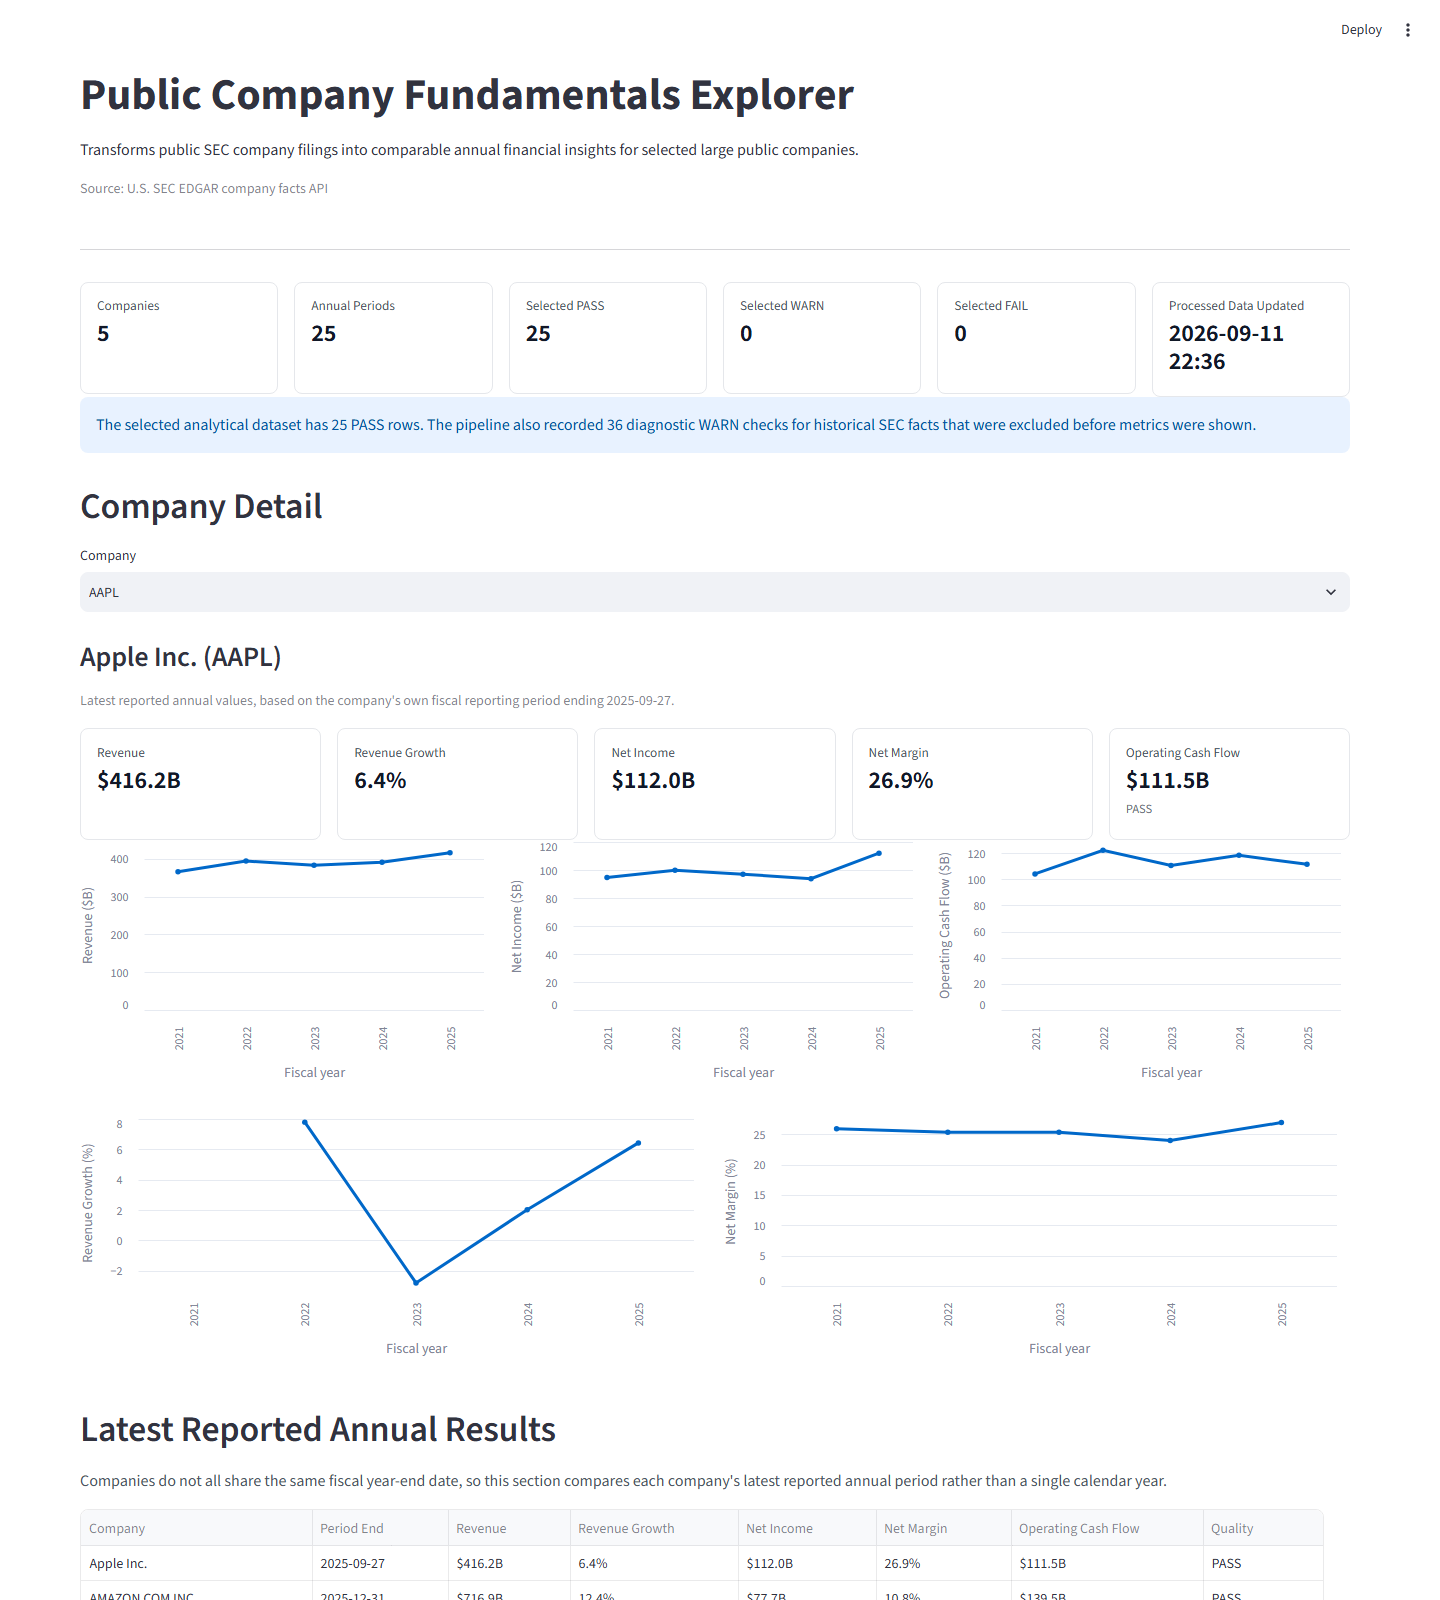
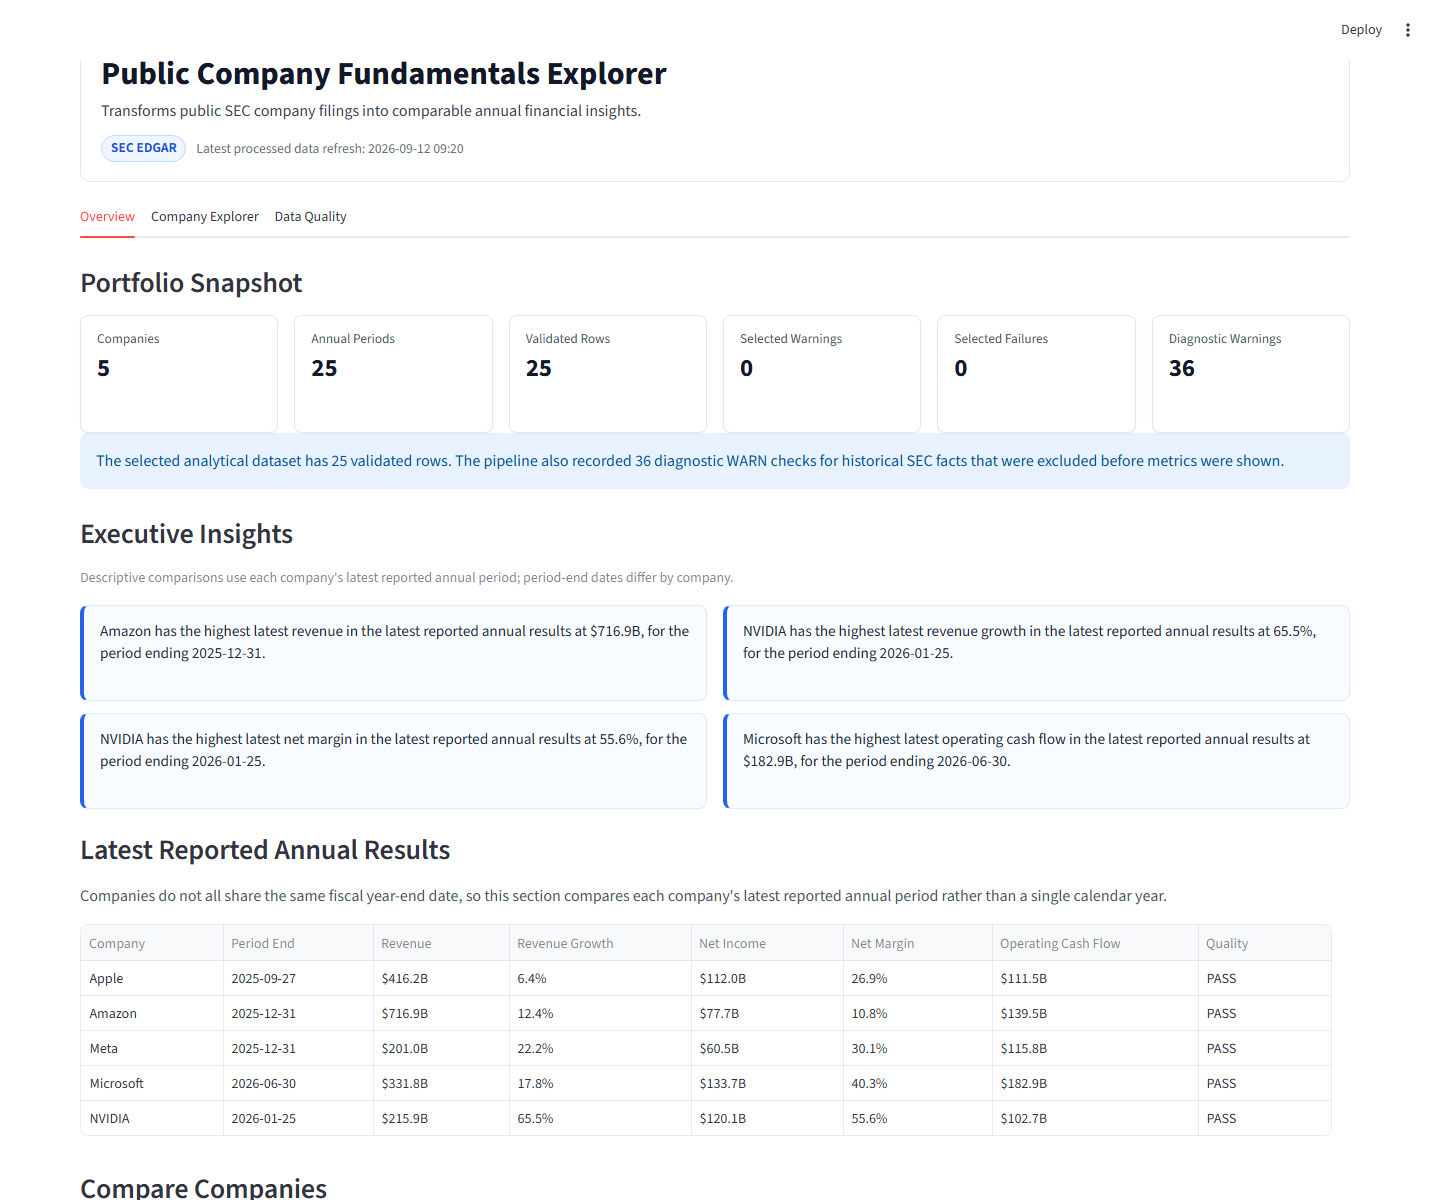
Harden ETL reliability and finalize submission

diff --git a/tests/test_etl.py b/tests/test_etl.py
@@ -1,0 +1,60 @@
+import json
+
+from etl import successful_company_tickers
+from src.config import (
+    NET_INCOME_CONCEPTS,
+    OPERATING_CASH_FLOW_CONCEPTS,
+    REVENUE_CONCEPTS,
+)
+from src.transform import transform_raw_files
+
+
+def annual_fact(value):
+    return {
+        "val": value,
+        "start": "2023-01-01",
+        "end": "2023-12-31",
+        "filed": "2024-02-01",
+        "form": "10-K",
+        "fp": "FY",
+        "fy": 2023,
+        "accn": "test-accession",
+    }
+
+
+def raw_companyfacts(cik, entity_name, revenue):
+    return {
+        "cik": cik,
+        "entityName": entity_name,
+        "facts": {
+            "us-gaap": {
+                REVENUE_CONCEPTS[0]: {"units": {"USD": [annual_fact(revenue)]}},
+                NET_INCOME_CONCEPTS[0]: {"units": {"USD": [annual_fact(10)]}},
+                OPERATING_CASH_FLOW_CONCEPTS[0]: {"units": {"USD": [annual_fact(15)]}},
+            }
+        },
+    }
+
+
+def write_raw_companyfacts(raw_dir, ticker, payload):
+    path = raw_dir / f"{ticker}_companyfacts.json"
+    path.write_text(json.dumps(payload), encoding="utf-8")
+
+
+def test_failed_current_extraction_is_not_processed_from_stale_raw_file(tmp_path):
+    write_raw_companyfacts(tmp_path, "FAILCO", raw_companyfacts(1, "Failed Co", 100))
+    write_raw_companyfacts(tmp_path, "OKCO", raw_companyfacts(2, "OK Co", 200))
+
+    metadata = [
+        {"ticker": "COMPANY_TICKERS", "status": "SUCCESS"},
+        {"ticker": "FAILCO", "status": "FAIL"},
+        {"ticker": "OKCO", "status": "SUCCESS"},
+    ]
+
+    eligible_tickers = successful_company_tickers(metadata)
+    rows, events = transform_raw_files(tickers=eligible_tickers, raw_dir=tmp_path)
+
+    assert eligible_tickers == ("OKCO",)
+    assert {row["ticker"] for row in rows} == {"OKCO"}
+    assert rows[0]["revenue"] == 200
+    assert not [event for event in events if event["ticker"] == "FAILCO"]

diff --git a/etl.py b/etl.py
@@ -190,6 +190,14 @@ def print_summary(metadata: list[dict[str, Any]]) -> None:
             print(f"- {record['ticker']}: {record['error_message']}")
 
 
+def successful_company_tickers(metadata: list[dict[str, Any]]) -> tuple[str, ...]:
+    return tuple(
+        record["ticker"]
+        for record in metadata
+        if record["ticker"] != "COMPANY_TICKERS" and record["status"] == "SUCCESS"
+    )
+
+
 def save_processed_outputs(
     rows: list[dict[str, Any]],
     company_summary: list[dict[str, Any]],
@@ -241,7 +249,8 @@ def print_etl_summary(
 
 def main() -> None:
     metadata = extract()
-    rows, selection_events = transform_raw_files()
+    eligible_tickers = successful_company_tickers(metadata)
+    rows, selection_events = transform_raw_files(tickers=eligible_tickers)
     validated_rows, quality_report = validate_fundamentals(rows, selection_events)
     company_summary = build_company_summary(validated_rows)
     output_paths = save_processed_outputs(

diff --git a/src/config.py b/src/config.py
@@ -10,10 +10,7 @@ COMPANY_FACTS_URL_TEMPLATE = (
     f"{SEC_DATA_BASE_URL}/api/xbrl/companyfacts/CIK{{cik}}.json"
 )
 
-SEC_USER_AGENT = (
-    "PublicCompanyFundamentalsExplorer/0.1 "
-    "(AI data engineering take-home; contact: example@example.com)"
-)
+SEC_USER_AGENT = "PublicCompanyFundamentalsExplorer/1.0 gil4business@gmail.com"
 
 REQUEST_TIMEOUT_SECONDS = 20
 REQUEST_PAUSE_SECONDS = 0.25

diff --git a/README.md b/README.md
@@ -50,37 +50,40 @@ Repository Structure
 
 ```text
 .
-├── app.py
-├── etl.py
-├── requirements.txt
-├── README.md
-├── dashboard_screenshot.png
-├── ai_transcript/
-│   └── README.md
-├── data/
-│   ├── raw/
-│   │   ├── company_tickers.json
-│   │   ├── AAPL_companyfacts.json
-│   │   ├── MSFT_companyfacts.json
-│   │   ├── NVDA_companyfacts.json
-│   │   ├── AMZN_companyfacts.json
-│   │   ├── META_companyfacts.json
-│   │   └── extraction_metadata.json
-│   └── processed/
-│       ├── company_fundamentals.csv
-│       ├── company_summary.csv
-│       └── data_quality_report.csv
-├── src/
-│   ├── __init__.py
-│   ├── config.py
-│   ├── quality.py
-│   ├── sec_client.py
-│   ├── storage.py
-│   └── transform.py
-└── tests/
-    ├── conftest.py
-    ├── test_quality.py
-    └── test_transform.py
+|-- app.py
+|-- etl.py
+|-- requirements.txt
+|-- README.md
+|-- dashboard_screenshot.png
+|-- ai_transcript/
+|   |-- README.md
+|   |-- chatgpt_assignment_transcript.md
+|   `-- coding_agent_session.md
+|-- data/
+|   |-- raw/
+|   |   |-- company_tickers.json
+|   |   |-- AAPL_companyfacts.json
+|   |   |-- MSFT_companyfacts.json
+|   |   |-- NVDA_companyfacts.json
+|   |   |-- AMZN_companyfacts.json
+|   |   |-- META_companyfacts.json
+|   |   `-- extraction_metadata.json
+|   `-- processed/
+|       |-- company_fundamentals.csv
+|       |-- company_summary.csv
+|       `-- data_quality_report.csv
+|-- src/
+|   |-- __init__.py
+|   |-- config.py
+|   |-- quality.py
+|   |-- sec_client.py
+|   |-- storage.py
+|   `-- transform.py
+`-- tests/
+    |-- conftest.py
+    |-- test_etl.py
+    |-- test_quality.py
+    `-- test_transform.py
 ```
 
 SEC EDGAR Data Source
@@ -99,8 +102,8 @@ Local Run Instructions
 ----------------------
 
 ```bash
-git clone <repository-url>
-cd <repository-folder>
+git clone https://github.com/gil4business-commits/company-fundamentals-explorer.git
+cd company-fundamentals-explorer
 python -m venv .venv
 # Windows: .venv\Scripts\activate
 # macOS/Linux: source .venv/bin/activate
@@ -117,7 +120,7 @@ Running `python etl.py` performs:
 ```text
 extract
 -> persist raw SEC JSON
--> transform annual facts
+-> transform annual facts for companies successfully extracted in the current run
 -> validate rows and diagnostics
 -> save processed analytical CSVs
 ```
@@ -125,7 +128,7 @@ extract
 Raw outputs are written to `data/raw/`:
 
 - `company_tickers.json`
-- one `*_companyfacts.json` file per configured ticker
+- one `*_companyfacts.json` file per successfully fetched configured ticker
 - `extraction_metadata.json`
 
 Processed outputs are written to `data/processed/`:
@@ -133,6 +136,8 @@ Processed outputs are written to `data/processed/`:
 - `company_fundamentals.csv`: one row per company and selected fiscal year
 - `company_summary.csv`: one row per company with latest reported annual results
 - `data_quality_report.csv`: row-level quality status plus diagnostic checks
+
+The ETL uses current extraction metadata to decide which tickers are eligible for transformation. If a company fails during the current extraction run, an older local raw file for that ticker is not transformed as if it were fresh data. Successful companies continue processing.
 
 The main analytical fields include:
 
@@ -265,6 +270,7 @@ Coverage focuses on:
 - net margin calculation
 - duplicate company/year validation
 - quality status behavior for missing metrics
+- ensuring a failed current extraction is not silently transformed from a stale local raw file
 
 Assumptions
 -----------
@@ -292,6 +298,11 @@ AI Usage
 
 AI assistance was used to help plan, implement, test, and polish this take-home project. AI was used for code generation, debugging, documentation drafting, and iterative product refinement.
 
+The repository includes AI interaction records for:
+
+- assignment planning and product-design interaction
+- coding-agent implementation interaction
+
 The implementation decisions were kept within the assignment constraints:
 
 - no private credentials
@@ -301,7 +312,7 @@ The implementation decisions were kept within the assignment constraints:
 - no LLM calls inside the application
 - no investment advice language
 
-The `ai_transcript/` directory documents the transcript status for submission.
+The `ai_transcript/` directory contains the assignment interaction records for submission.
 
 What I Would Improve With More Time
 -----------------------------------
